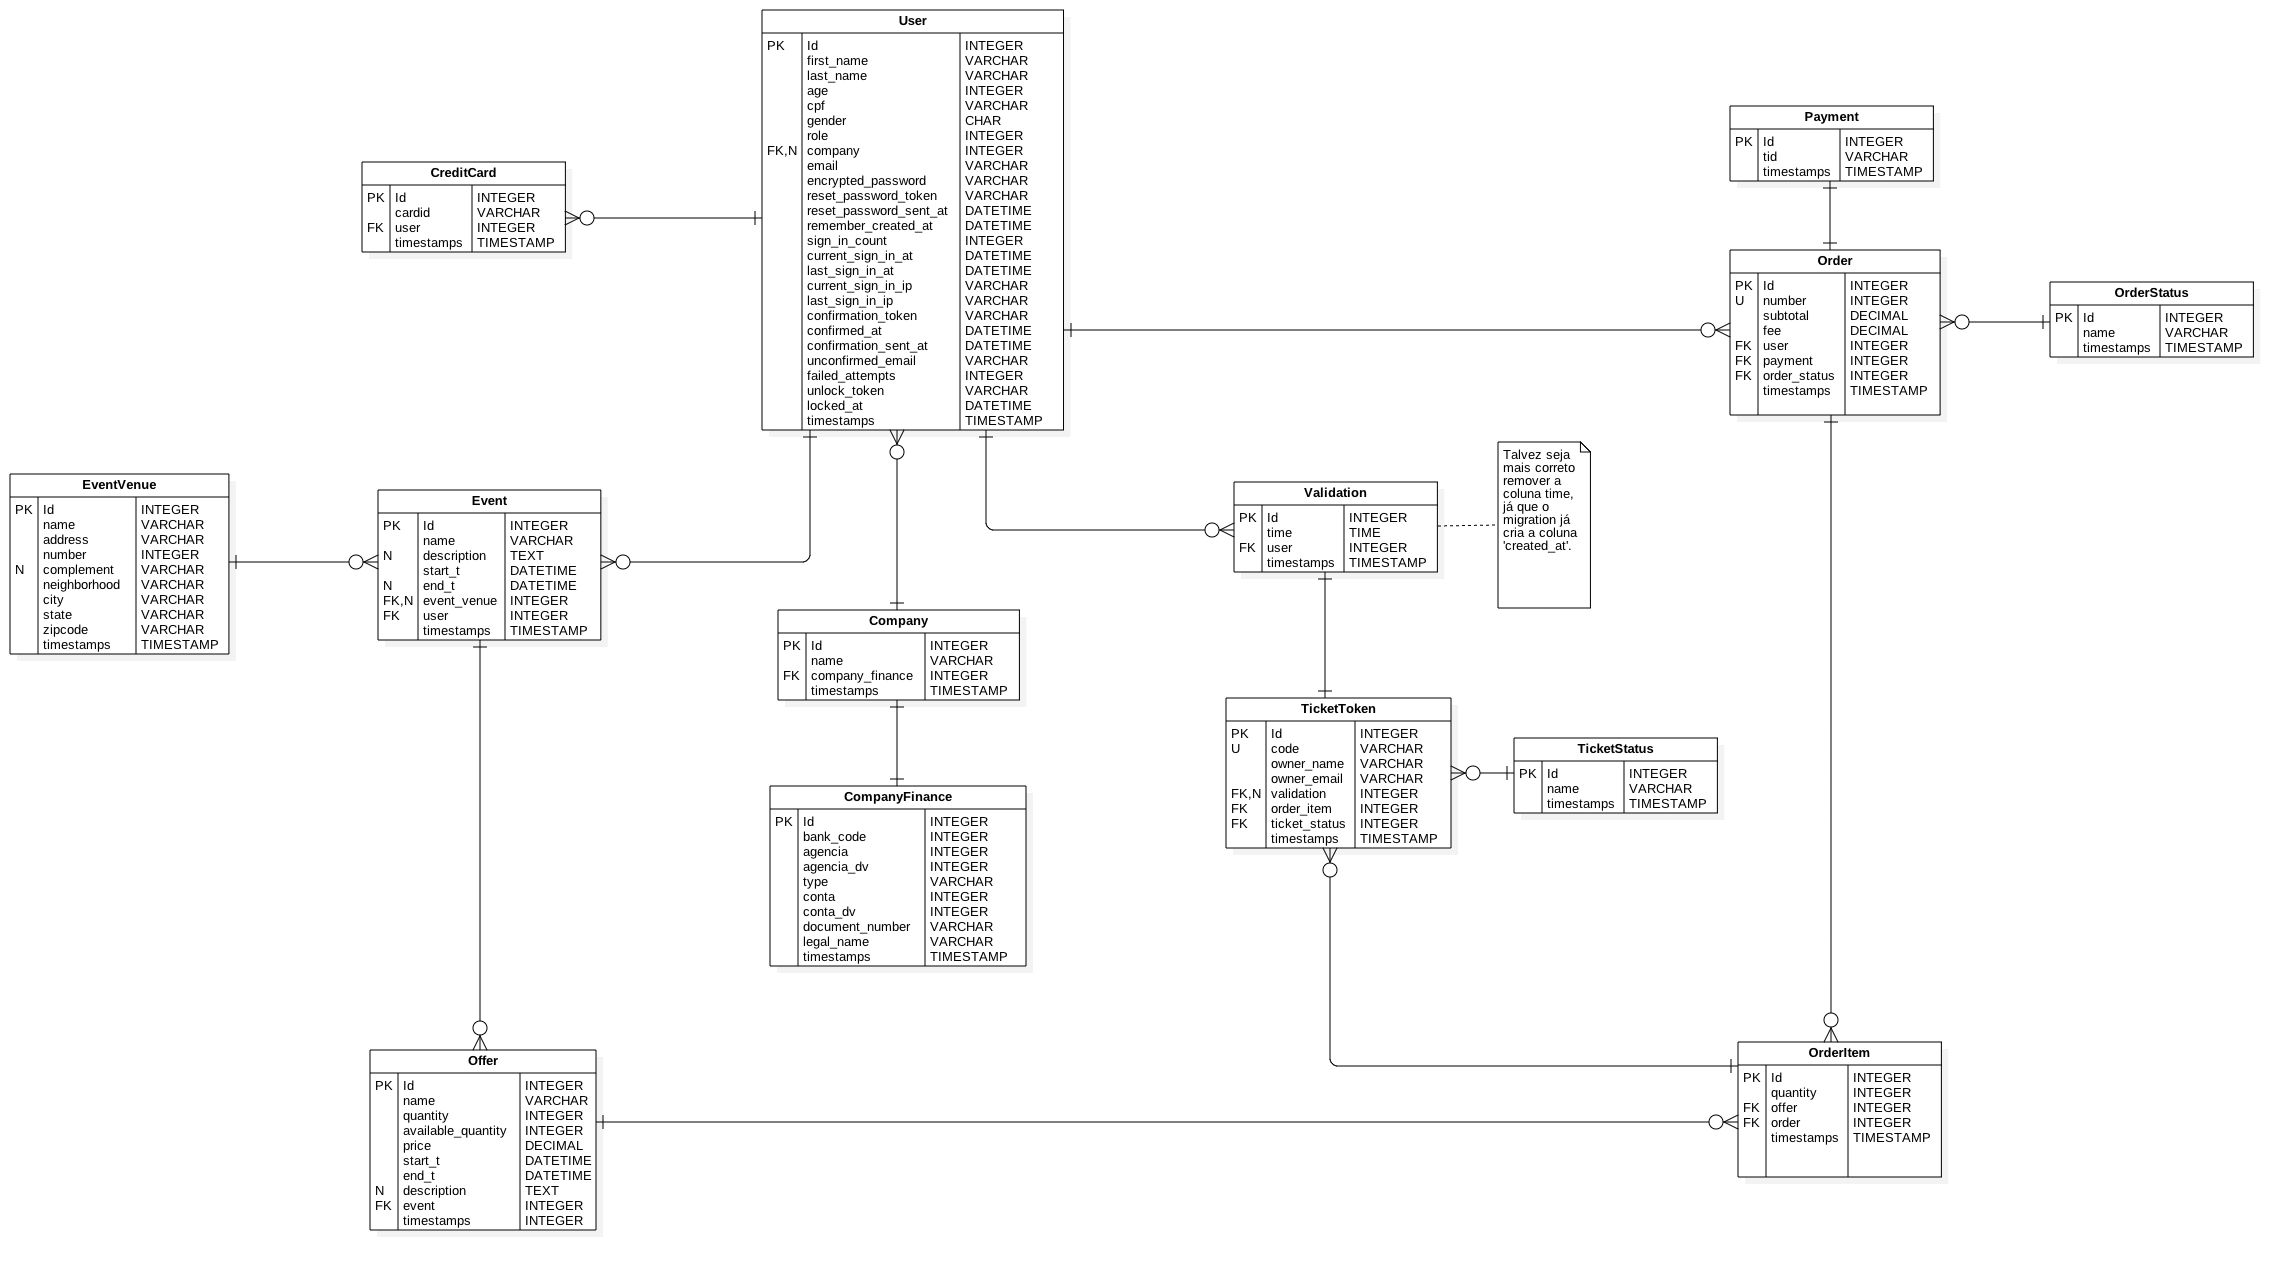
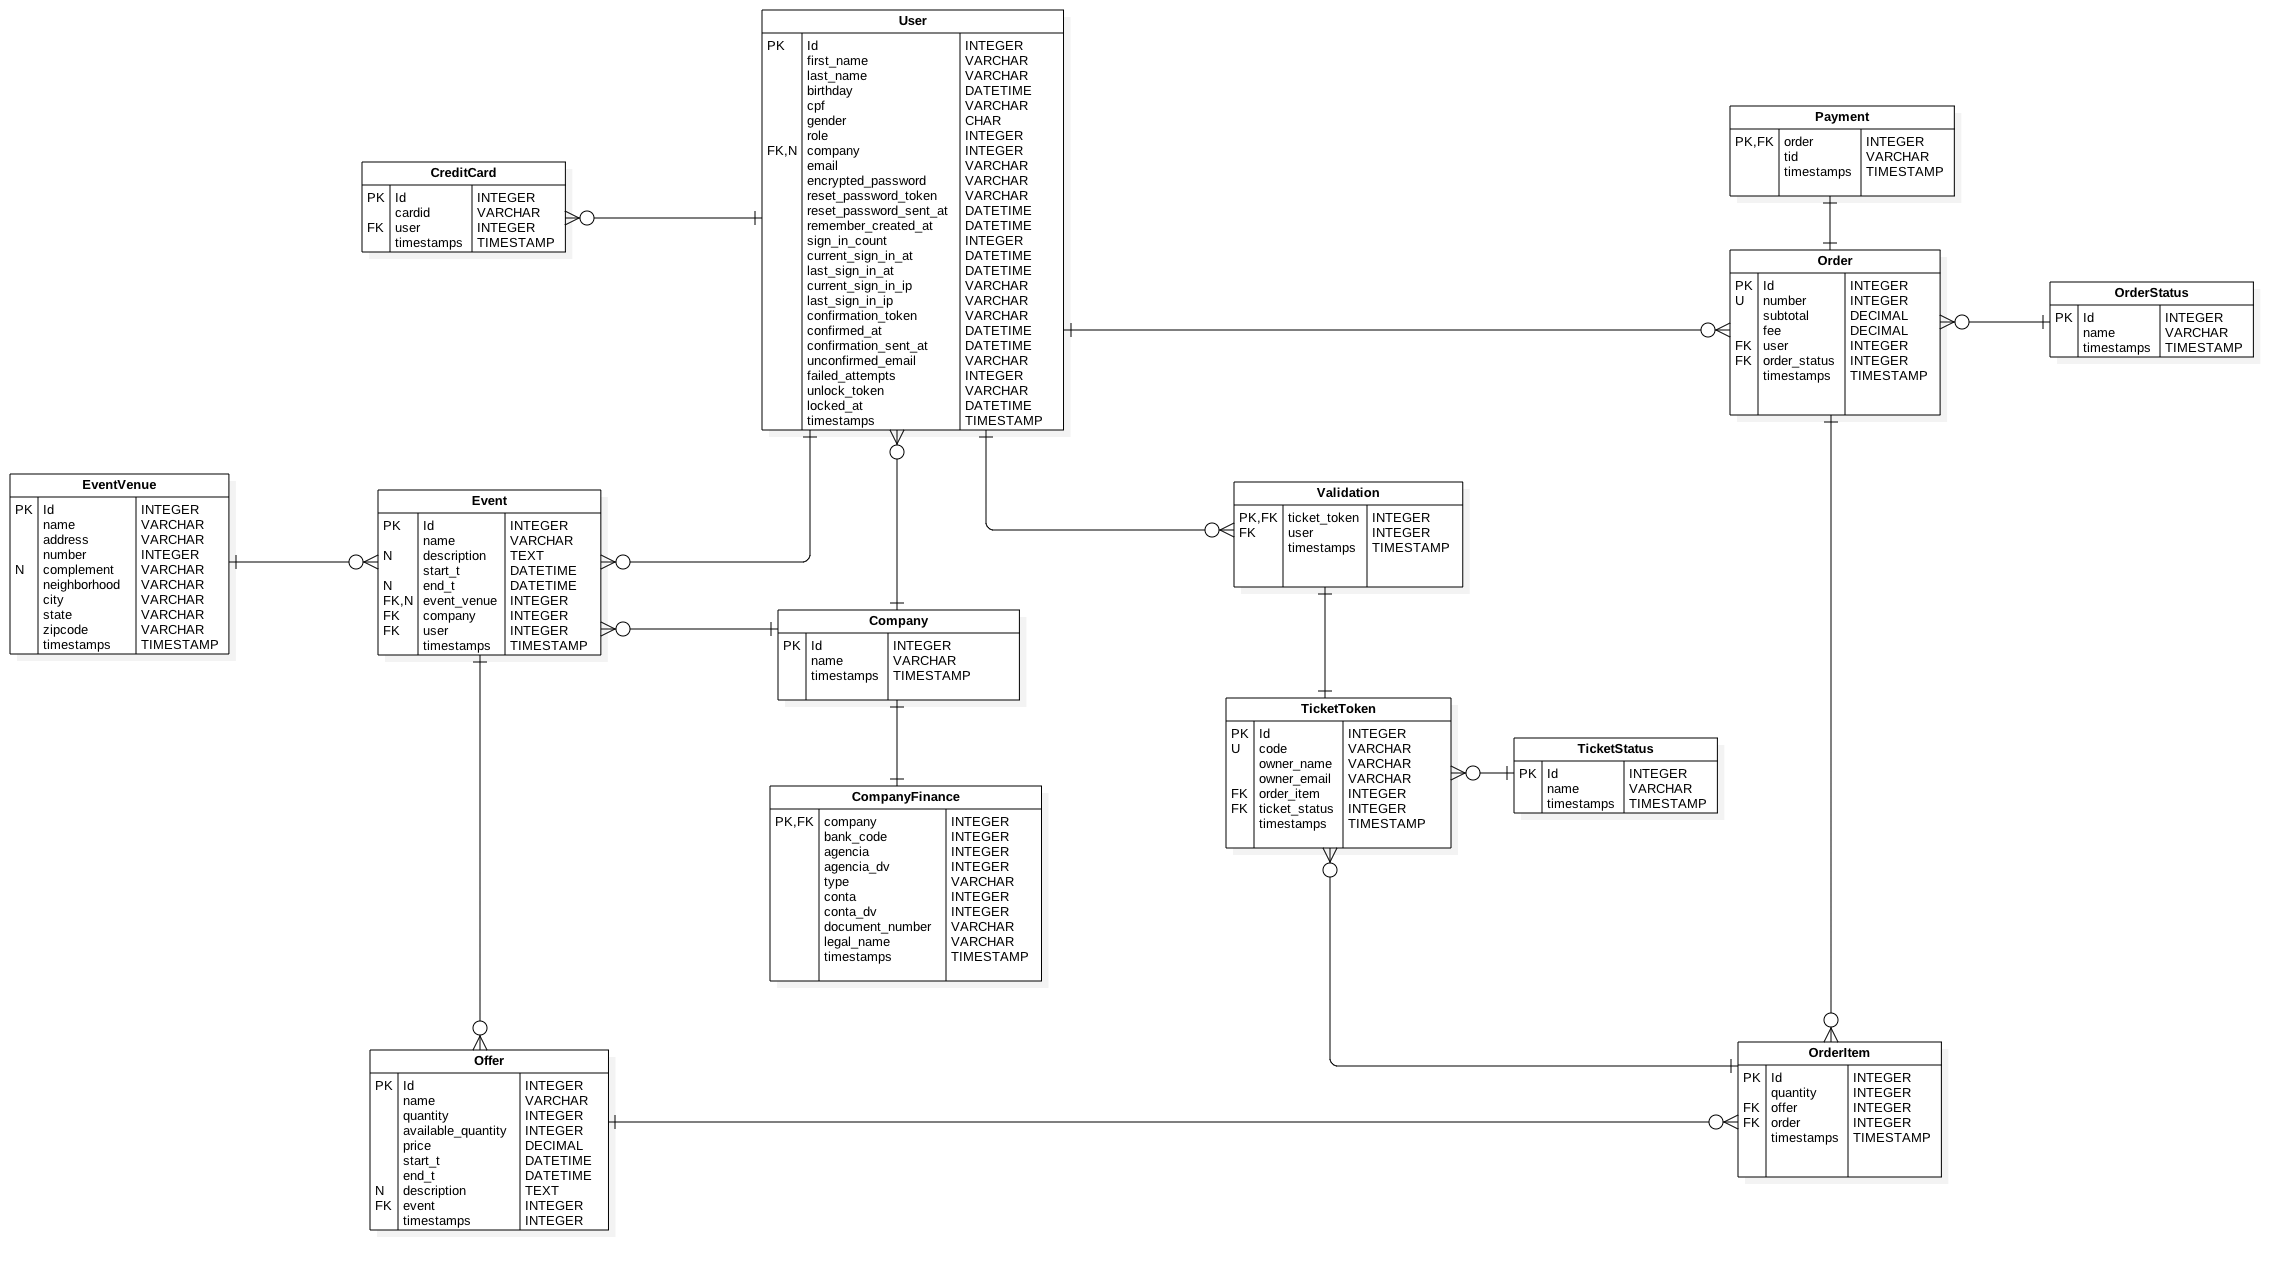
DATABASE CHANGE: Adiciona a coluna company_id na tabela events.

diff --git a/db/schema.rb b/db/schema.rb
@@ -10,7 +10,7 @@
 #
 # It's strongly recommended that you check this file into your version control system.
 
-ActiveRecord::Schema.define(version: 2019_02_10_170641) do
+ActiveRecord::Schema.define(version: 2019_02_12_235025) do
 
   # These are extensions that must be enabled in order to support this database
   enable_extension "plpgsql"
@@ -66,6 +66,8 @@ ActiveRecord::Schema.define(version: 2019_02_10_170641) do
     t.datetime "created_at", null: false
     t.datetime "updated_at", null: false
     t.string "image_url"
+    t.bigint "company_id", null: false
+    t.index ["company_id"], name: "index_events_on_company_id"
     t.index ["event_venue_id"], name: "index_events_on_event_venue_id"
     t.index ["user_id"], name: "index_events_on_user_id"
   end
@@ -184,6 +186,7 @@ ActiveRecord::Schema.define(version: 2019_02_10_170641) do
 
   add_foreign_key "company_finances", "companies"
   add_foreign_key "credit_cards", "users"
+  add_foreign_key "events", "companies"
   add_foreign_key "events", "event_venues"
   add_foreign_key "events", "users"
   add_foreign_key "offers", "events"

diff --git a/db/migrate/20190212235025_add_company_to_events.rb b/db/migrate/20190212235025_add_company_to_events.rb
@@ -1,0 +1,5 @@
+class AddCompanyToEvents < ActiveRecord::Migration[5.2]
+  def change
+  	add_reference :events, :company, foreign_key: true, null: false
+  end
+end
